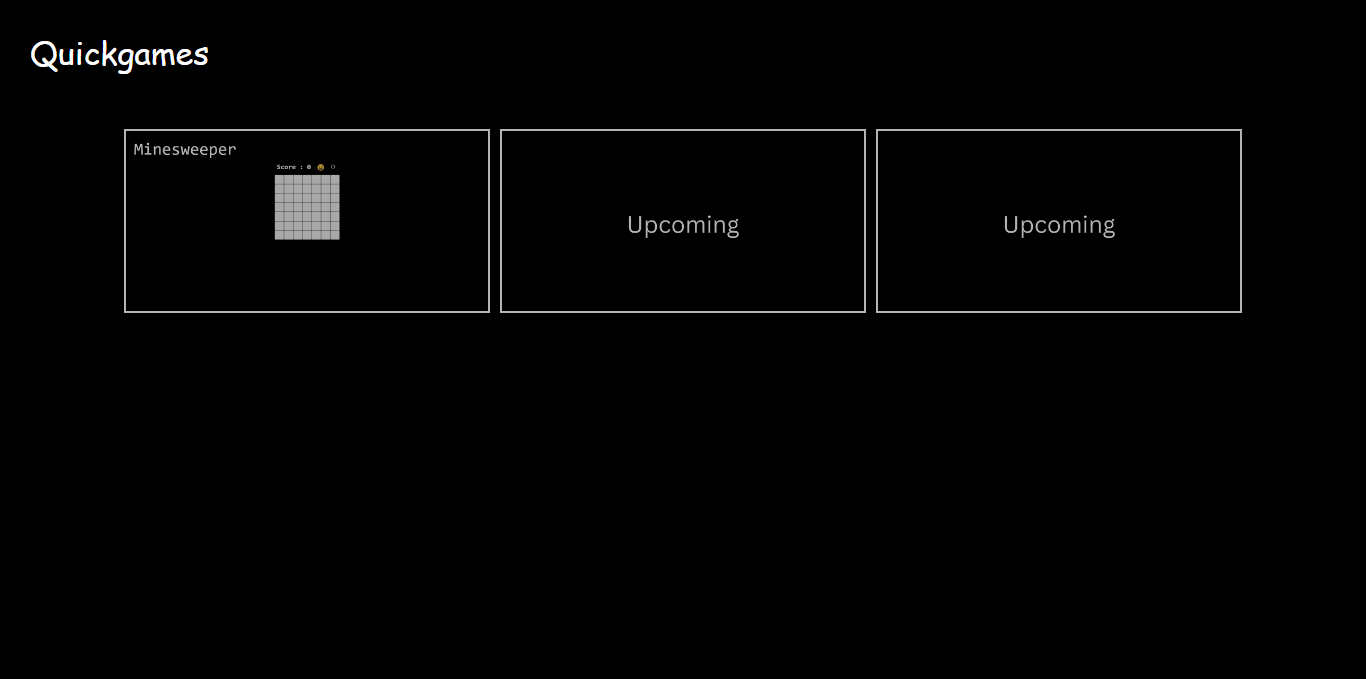
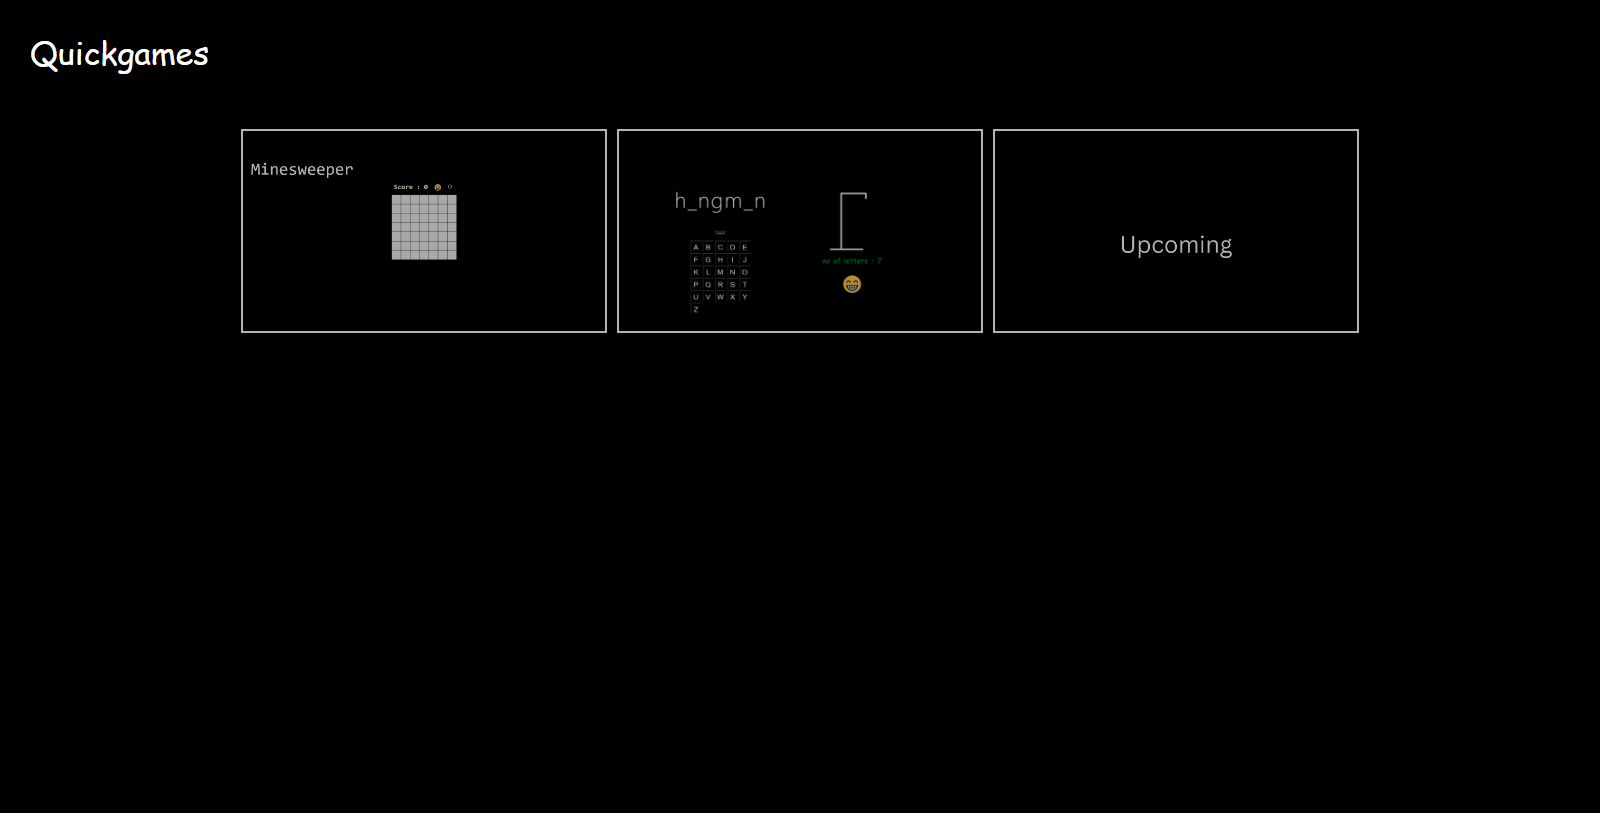
update after hangman

diff --git a/src/Projects.js b/src/Projects.js
@@ -11,7 +11,7 @@ function Projects(){
             <table>
                 <tr>
                     <td>
-                        <a href="#"><img className='snp actv' src={snp}></img></a>
+                        <a href="https://www.quickgames.world/" target="__blank__"><img className='snp actv' src={snp}></img></a>
                     </td>
                     <td>
                         <a href="#"><img className='snp actv' src={bs}></img></a>
